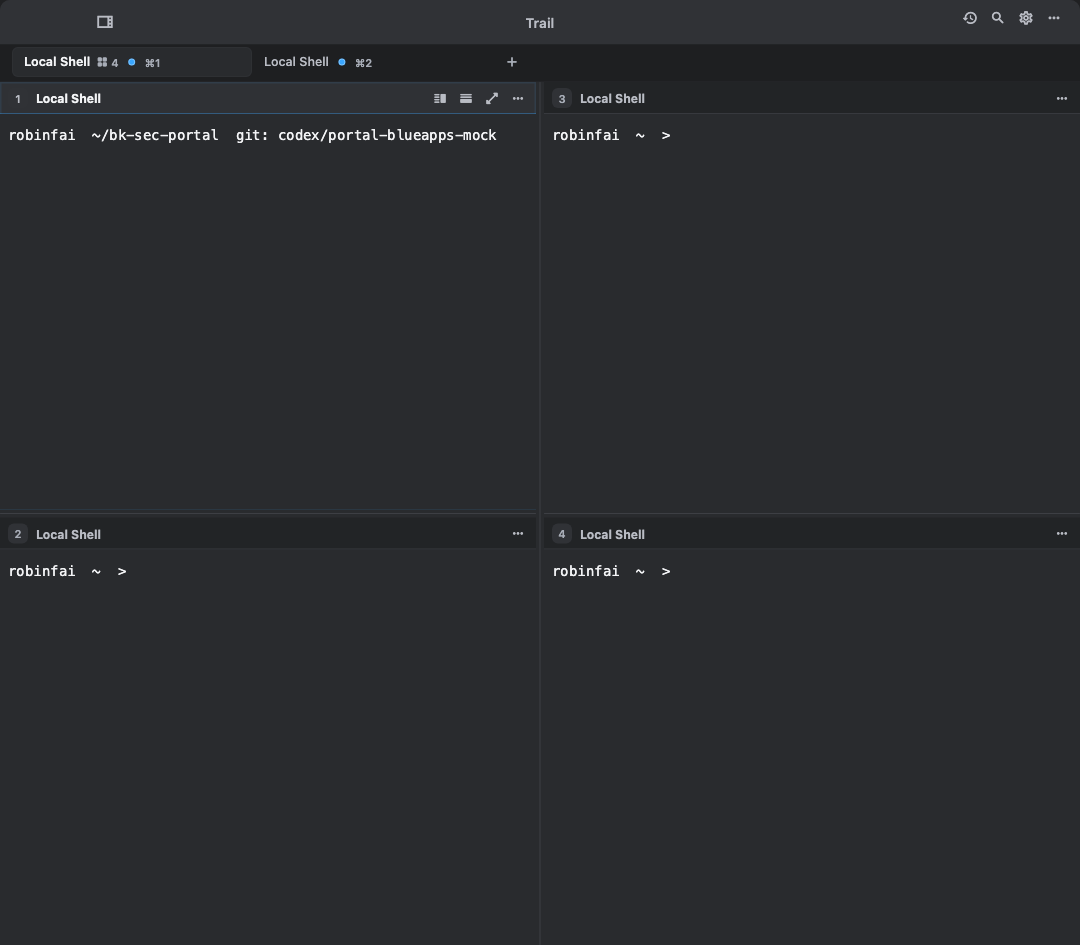
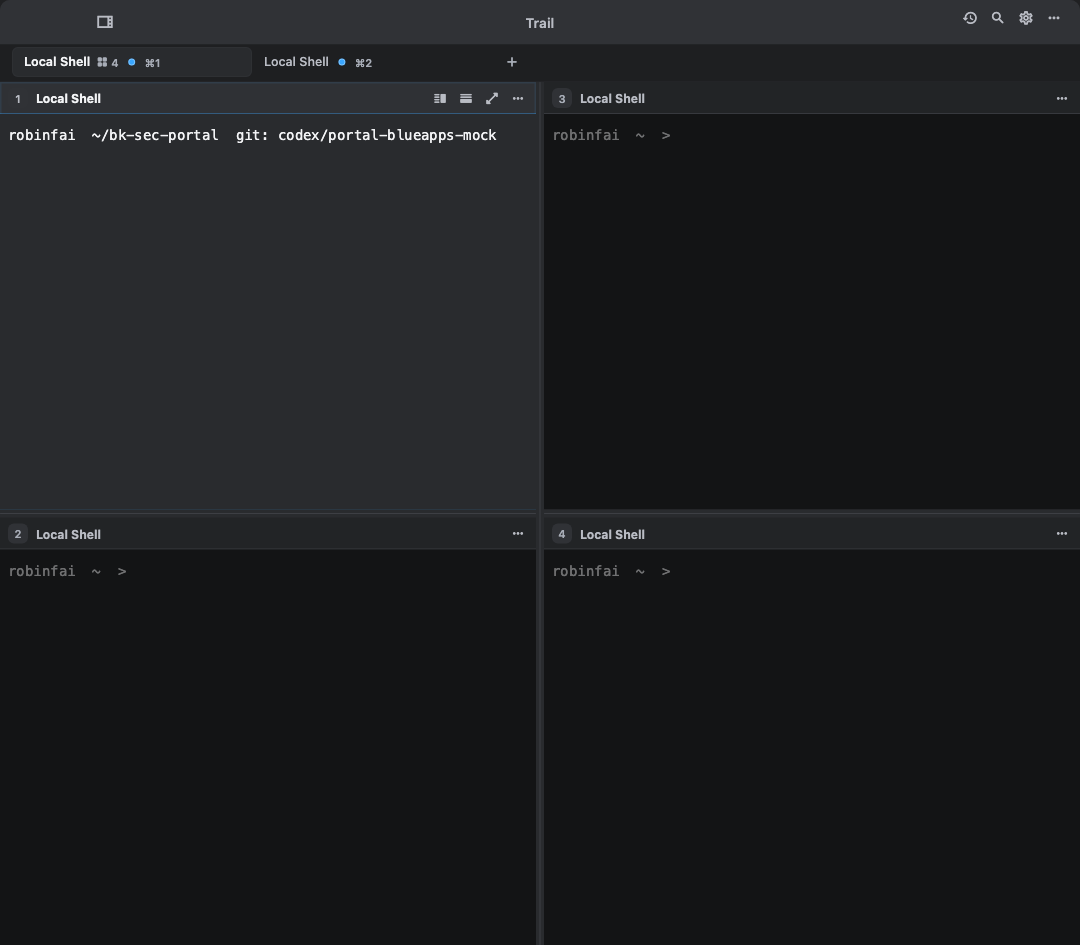
fix(shell): restore inactive pane dimming

diff --git a/example/test/widget_test.dart b/example/test/widget_test.dart
@@ -560,7 +560,7 @@ void main() {
         findsNothing,
       );
     }
-    expect(find.byKey(const Key('shell-pane-dim-1')), findsNothing);
+    expect(find.byKey(const Key('shell-pane-dim-1')), findsOneWidget);
     expect(find.byKey(const Key('shell-pane-header-number-1')), findsOneWidget);
     expect(
       tester
@@ -1317,7 +1317,7 @@ void main() {
       expect(find.byKey(const Key('shell-pane-1')), findsOneWidget);
       expect(find.byKey(const Key('shell-pane-2')), findsOneWidget);
       _expectActivePane(tester, '2');
-      expect(find.byKey(const Key('shell-pane-dim-1')), findsNothing);
+      expect(find.byKey(const Key('shell-pane-dim-1')), findsOneWidget);
       expect(find.byKey(const Key('shell-pane-dim-2')), findsNothing);
       expect(fakeBindings.writes, isEmpty);
     },
@@ -1490,7 +1490,7 @@ void main() {
     await tester.pumpAndSettle();
 
     _expectActivePane(tester, '2');
-    expect(find.byKey(const Key('shell-pane-dim-1')), findsNothing);
+    expect(find.byKey(const Key('shell-pane-dim-1')), findsOneWidget);
     expect(find.byKey(const Key('shell-pane-dim-2')), findsNothing);
 
     final pointer = TestPointer(7, PointerDeviceKind.mouse);
@@ -1500,7 +1500,7 @@ void main() {
     await tester.pump();
 
     _expectActivePane(tester, '2');
-    expect(find.byKey(const Key('shell-pane-dim-1')), findsNothing);
+    expect(find.byKey(const Key('shell-pane-dim-1')), findsOneWidget);
     expect(find.byKey(const Key('shell-pane-dim-2')), findsNothing);
 
     await tester.tap(find.byKey(const Key('shell-pane-1')));
@@ -1508,7 +1508,7 @@ void main() {
 
     expect(find.byKey(const Key('shell-pane-dim-1')), findsNothing);
     _expectActivePane(tester, '1');
-    expect(find.byKey(const Key('shell-pane-dim-2')), findsNothing);
+    expect(find.byKey(const Key('shell-pane-dim-2')), findsOneWidget);
     expect(fakeBindings.writes, isEmpty);
   });
 
@@ -4500,7 +4500,7 @@ void main() {
 
     expect(find.byKey(const Key('shell-pane-dim-1')), findsNothing);
     _expectActivePane(tester, '1');
-    expect(find.byKey(const Key('shell-pane-dim-2')), findsNothing);
+    expect(find.byKey(const Key('shell-pane-dim-2')), findsOneWidget);
     expect(find.text('Pane 1 of 2'), findsNothing);
     expect(find.text('Back in shell'), findsNothing);
   });
@@ -4524,14 +4524,14 @@ void main() {
 
     expect(find.byKey(const Key('shell-pane-dim-1')), findsNothing);
     _expectActivePane(tester, '1');
-    expect(find.byKey(const Key('shell-pane-dim-2')), findsNothing);
+    expect(find.byKey(const Key('shell-pane-dim-2')), findsOneWidget);
 
     await _openCommandMenu(tester);
     expect(find.text('Focus next pane'), findsNothing);
     expect(find.text('Focus previous pane'), findsNothing);
     expect(find.byKey(const Key('shell-pane-dim-1')), findsNothing);
     _expectActivePane(tester, '1');
-    expect(find.byKey(const Key('shell-pane-dim-2')), findsNothing);
+    expect(find.byKey(const Key('shell-pane-dim-2')), findsOneWidget);
     expect(fakeBindings.writes, isEmpty);
   });
 

diff --git a/example/test/design/terminal_layout_visual_capture_test.dart b/example/test/design/terminal_layout_visual_capture_test.dart
@@ -148,12 +148,28 @@ Future<void> _capture(
   expect(find.byKey(const Key('shell-pane-header-number-4')), findsOneWidget);
   expect(find.text('模式'), findsNothing);
   expect(find.text('粘贴'), findsNothing);
+  expect(find.byKey(const Key('shell-pane-dim-1')), findsNothing);
+  for (final id in ['2', '3', '4']) {
+    final dim = find.byKey(Key('shell-pane-dim-$id'));
+    expect(dim, findsOneWidget);
+    expect(
+      tester.widget<ColoredBox>(dim).color,
+      theme.extension<AppThemeTokens>()!.inactiveScrim,
+    );
+  }
   await expectLater(
     find.byKey(const Key('terminal-layout-capture')),
     matchesGoldenFile(
       '../../../docs/design/terminal-layout-review-20260916/$name.png',
     ),
   );
+  final firstPaneRect = tester.getRect(find.byKey(const Key('shell-pane-1')));
+  await tester.tap(find.byKey(const Key('shell-pane-4')));
+  await tester.pumpAndSettle();
+  expect(container.read(sessionControllerProvider).activeSessionId, '4');
+  expect(find.byKey(const Key('shell-pane-dim-4')), findsNothing);
+  expect(find.byKey(const Key('shell-pane-dim-1')), findsOneWidget);
+  expect(tester.getRect(find.byKey(const Key('shell-pane-1'))), firstPaneRect);
 }
 
 void main() {

diff --git a/example/lib/features/shell/shell_screen_state_terminal_layout.dart b/example/lib/features/shell/shell_screen_state_terminal_layout.dart
@@ -441,6 +441,7 @@ extension _ShellScreenStateTerminalLayout on _ShellScreenState {
         (pane) => pane.sessionId == sessionId,
       ),
     );
+    final hasHoveredLink = _hoveredTerminalLinkSessionId == sessionId;
     return LayoutBuilder(
       key: _paneDropTargetKey(activeTab.sessionId, sessionId),
       builder: (context, constraints) {
@@ -787,6 +788,15 @@ extension _ShellScreenStateTerminalLayout on _ShellScreenState {
                                   ),
                             ),
                           ),
+                          if (!isActive && !hasHoveredLink)
+                            Positioned.fill(
+                              child: IgnorePointer(
+                                child: ColoredBox(
+                                  key: Key('shell-pane-dim-$sessionId'),
+                                  color: palette.inactiveScrim,
+                                ),
+                              ),
+                            ),
                           ?attentionBurst,
                           if (isActive && _isSearchOpen)
                             Positioned(

diff --git a/docs/design/terminal-layout-review-20260916/implementation-qa.md b/docs/design/terminal-layout-review-20260916/implementation-qa.md
@@ -1,6 +1,6 @@
 # 终端布局实现与验证
 
-日期：2026-09-16。基线：`e2f4efd0`。已按预期图实现，并按最终要求移除“模式”和协议特性状态展示。
+初版日期：2026-09-16。基线：`e2f4efd0`。已按预期图实现，并按最终要求移除“模式”和协议特性状态展示。2026-09-17 根据使用反馈恢复非活动窗格降低亮度的设计，下方组件截图已更新。
 
 ## 已实现
 
@@ -9,12 +9,19 @@
 - 窗格标题改为简短编号和真实终端标题；编号保留完整位置和活动状态的无障碍说明。
 - 活动窗格显示分屏、缩放操作；每个窗格都有“更多”，窄窗格也能通过菜单访问操作。
 - 窗格菜单绑定打开它的具体会话，切换焦点后仍操作原目标；关闭入口收进菜单。
-- 移除非活动窗格黑色蒙层，以焦点边框区分活动窗格。边框尺寸保持一致，切换焦点不会改变终端可用尺寸。
+- 保留非活动窗格遮暗，并使用焦点边框标记活动窗格。遮暗沿用主题原有强度，不拦截点击；悬停链接时保留原来的临时提亮行为。边框尺寸保持一致，切换焦点不会改变终端可用尺寸。
 - 移除备用屏幕、鼠标上报、括号粘贴、MIME 粘贴、焦点上报、扩展键盘、同步输出等协议状态标记。底层协议仍生效。
 - 保留只读、远程、进度、通知和会话徽标；提示过多时可水平滚动，避免挤出标签边界。
 - 继续使用现有主题、分隔线、拖拽和动态标题逻辑，不重绘或替换 shell 提示符。
 
-## 验证
+## 2026-09-17 回归修复验证
+
+- 恢复 `inactiveScrim` 覆盖层，保持标签、窗格编号和“更多”操作布局。
+- 32 项窗格/分屏相关测试通过，包括深浅主题和窄窗口截图、非活动窗格遮暗颜色、点击切换焦点、遮暗转移和窗格尺寸保持不变。
+- 本次修改的 3 个 Dart 文件通过严格静态检查，无错误、警告或信息级提示。
+- macOS Debug 构建通过。
+
+## 2026-09-16 初版验证
 
 - macOS Debug 构建通过，产物：`example/build/macos/Build/Products/Debug/Trail Development.app`。
 - 在独立开发版中实际启动本地终端，验证向右/向下分屏、焦点切换及协议标记消失；原生截图为 `implementation-native-smoke.png`。
